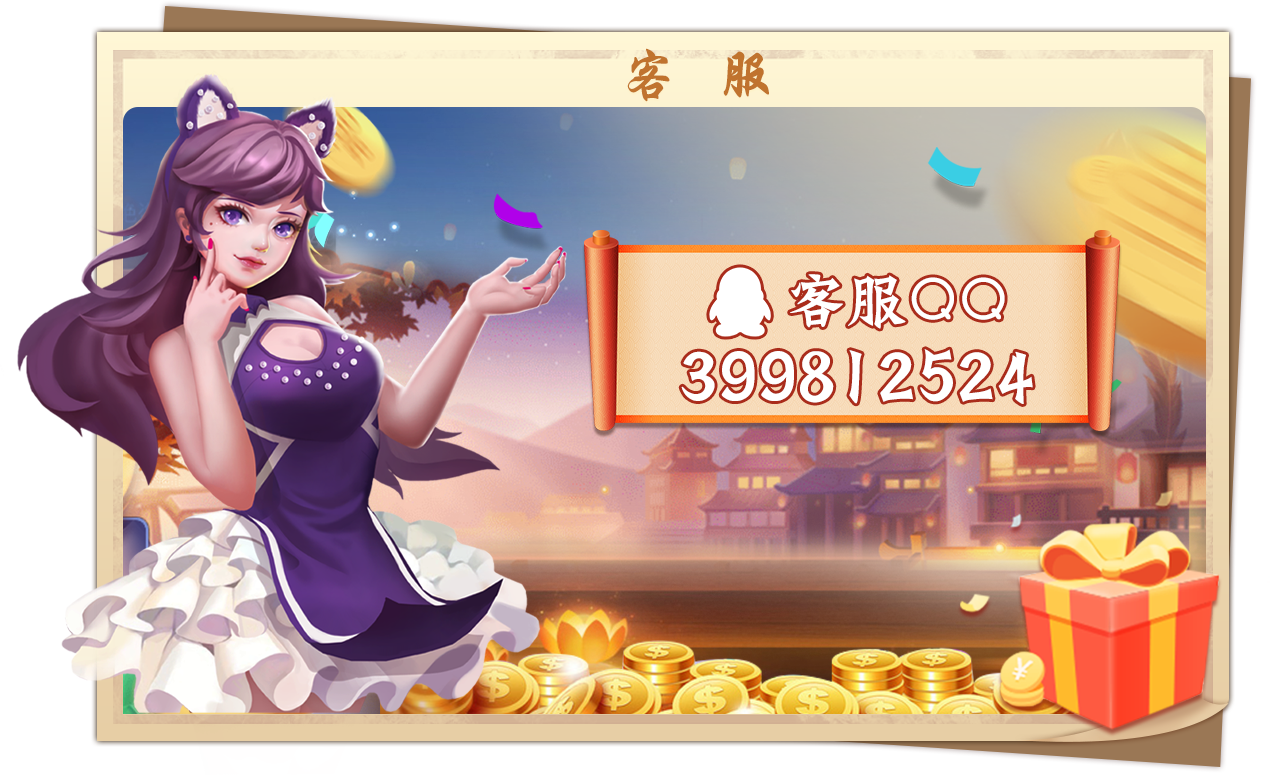
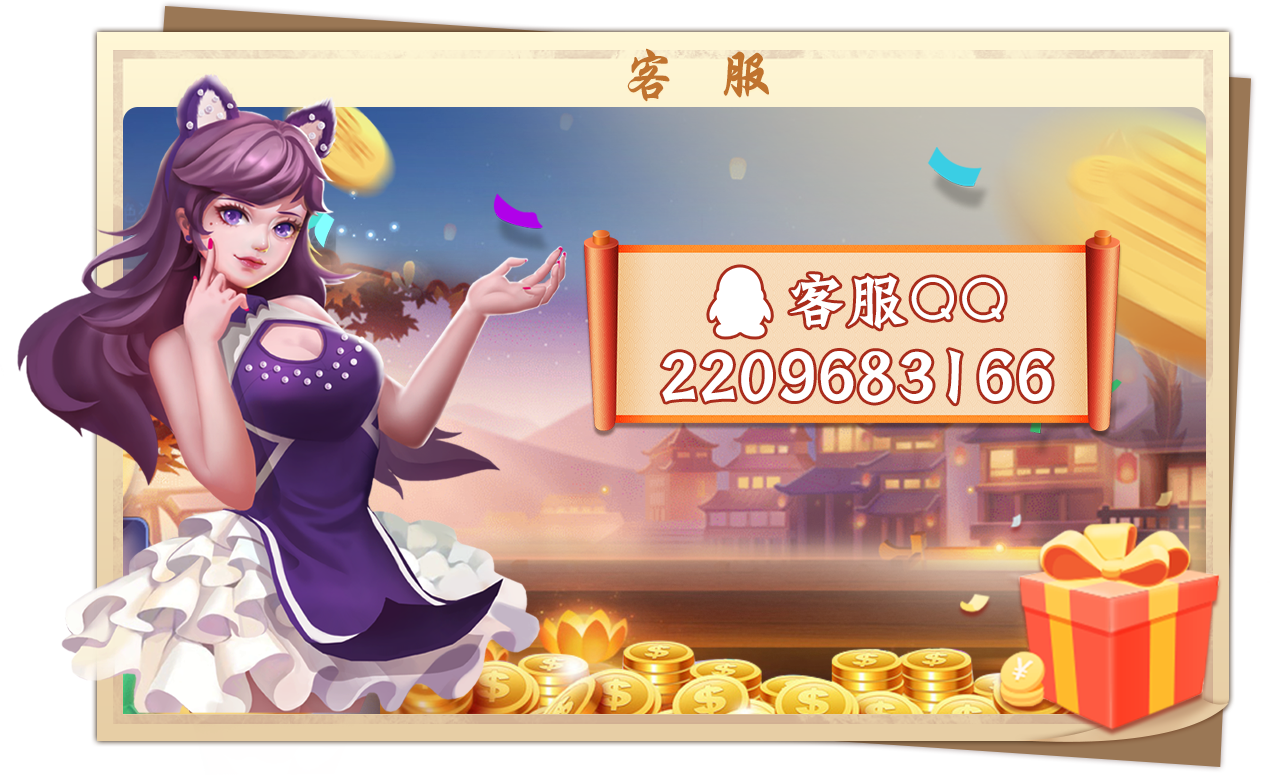
客服修改

Changed region(s): [[0.522, 0.4335, 0.8291, 0.5265]]

diff --git a/debugv03/src/popup/KefunewPop.js b/debugv03/src/popup/KefunewPop.js
@@ -8,6 +8,6 @@ var KefunewPop = BasePopup.extend({
 	},
 
 	onCopy:function(){
-		SdkUtil.sdkPaste("399812524");
+		SdkUtil.sdkPaste("2209683166");
 	},
 });

diff --git a/debugv03/src/SyVersion.js b/debugv03/src/SyVersion.js
@@ -2,7 +2,7 @@
  * Created by zhoufan on 2020/8/21
  */
 var SyVersion = {
-    v:"v1.0.51",
+    v:"v1.0.52",
 
 
     getVersion:function(){
